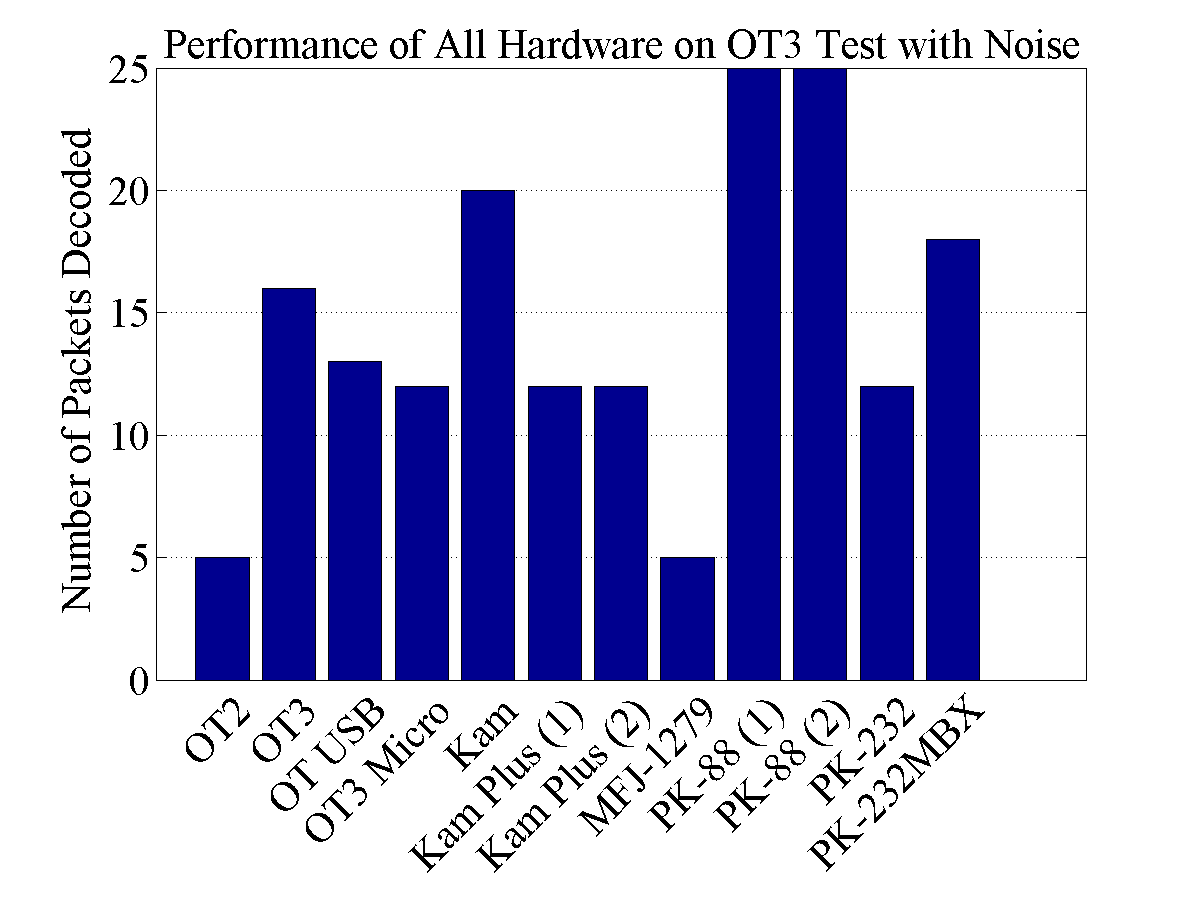
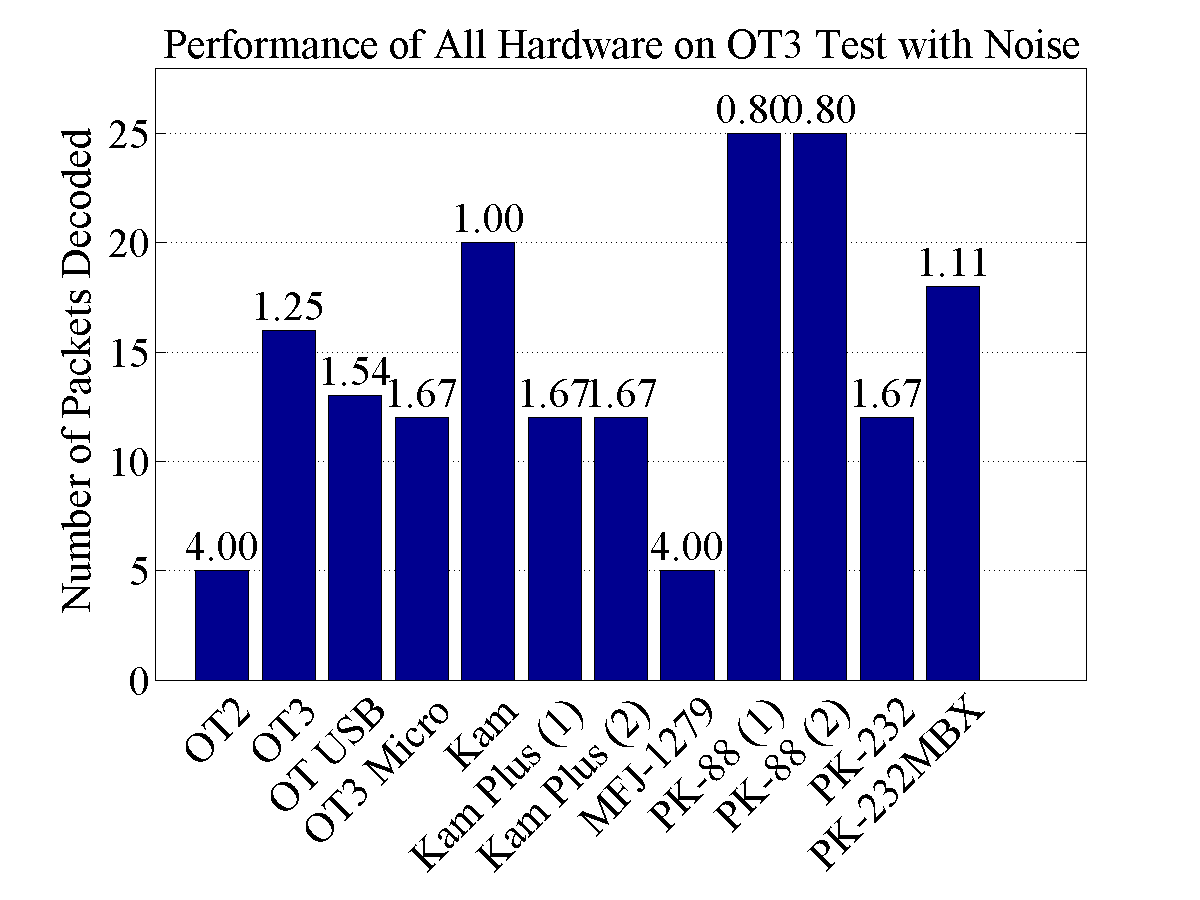
Some more edits including adding SNR to OT3 Test with noise

diff --git a/utilizingAPRS.tex b/utilizingAPRS.tex
@@ -37,9 +37,9 @@ However, both the options in this section and the one previous on TNCs require g
 \section{Software Based Demodulation}
 It's fair to assume that before a ham operator becomes interested in the APRS network and sending APRS packets that they will already have a radio. So, if they already have a radio all they have to do is buy a piece of hardware that will do the modulation in order to send a packet. However, hardware costs money and before diving right in, some users might appreciate being able to try APRS out first. A good, cheap alternative to dedicated hardware is to use hardware that hams already have. A good choice that will fit the needs is a computer, which most hams are likely to already own. If they don't happen to own a computer, much of this argument is null and void since a computer is required to use both TNCs and to program the specialty hardware. On the computer, amateurs can use software to do the modulation and demodulation, and build or buy a cheap interface to a radio, around \$15 instead of roughly \$200 for a piece of dedicated hardware.
 
-This seems to be a route that some are taking and a demodulation scheme that this project explores in detail, but before exploring this in more detail, more information on current systems that operate in this software realm is necessary. Some examples of the software that can be used are George Rossopoylos's Packet Engine\,\cite{Rossopoylos}, Thomas Sailer's Linux Sound Modem\,\cite{Sailer1997,Sailer2000}, and Sivan Toledo's JavaAX25\,\cite{javax25github, Toledo2012a}. On a computer, even one with minimal resources, there are algorithms that are being used to demodulate the APRS packets. Again, what this project aims to investigate is what improvements can be made to the algorithms and software-based demodulation approaches in order to decode these packets in a more robust fashion and to try and get similar performance to TNCs and dedicated hardware. Based on observations in initial analyses where software was unable to decode packets, the hypothesis is made that improvements can be made to software based demodulation.
+This seems to be a route that some are taking and a demodulation scheme that this project explores in detail, but before exploring this in more detail, more information on current systems that operate in this software realm is necessary. Some examples of the software that can be used are George Rossopoylos's Packet Engine\,\cite{Rossopoylos}, Thomas Sailer's Linux Sound Modem\,\cite{Sailer1997,Sailer2000}, and Sivan Toledo's JavaAX25\,\cite{javax25github, Toledo2012a}. On a computer, even one with minimal resources, there are algorithms that are being used to demodulate the APRS packets. Again, what this project aims to investigate is what improvements can be made to the algorithms of software-based demodulation approaches in order to decode more APRS packets to achieve performance similar to TNCs and dedicated hardware. Improved performance for the software is defined by being able to correctly decode more packets in an efficent, real time, manner. Based on observations in initial analyses where software was unable to decode packets, the hypothesis is made that improvements can be made to software based demodulation.
 
 \subsection{javAX25}
-Sivan Toledo's javAX25 is one method of utilizing the APRS network. Toledo's software is very comprehensive in handling the encoding, decoding, radio control, and interfacing with sound cards to allow for full use of APRS. However, in addition to just being able to utilize APRS, there is also a test application inside of this package that allows for quick and easy testing of everything in the suite - of the most interest, however, is the ability to test demodulators. Although all of these features were included, the three primarily used in this project were the modulation, demodulation, and demodulator testing. Due to its comprehensiveness and ease of access online through Github, javAX25 was chosen to be the basis for this project\,\cite{javax25github}. For a complete list of features the manual can be found in the following reference, and even from the beginning the mission statement he outlines coincides with that of this research\,\cite{Toledo2012a}.
+Sivan Toledo's javAX25 is one method of utilizing the APRS network. Toledo's software is very comprehensive in handling the encoding, decoding, radio control, and interfacing with sound cards to allow for full use of APRS. However, in addition to just being able to utilize APRS, there is also a test application inside of this package that allows for quick and easy testing of everything in the suite - of the most interest, however, is the ability to test demodulators. Although all of these features were included, the three primarily used in this project were the modulation, demodulation, and demodulator testing. Due to its comprehensiveness and ease of access online through Github, javAX25 was chosen to be the basis for this project\,\cite{javax25github}. For a complete list of features, the manual can be found in the following reference, and even from the beginning the mission statement he outlines coincides with that of this research\,\cite{Toledo2012a}.
 
 Toledo did some benchmarking of his software and found that running two demodulators in parallel provided the best results. The demodulators were exactly the same; the only difference was that one was processing data after a bandpass filter that was centered around the two frequencies of interest, and the other had a bandpass filter that additionally applied 6dB of attenuation at 1200Hz\,\cite{Toledo2012}. Being published in 2012, this is the newest reference in this paper on the subject of AX.25 (aside from the papers published by Finnegan\,\cite{KWFThesis, KWFTAPR}), which provided additional incentive to use this project for this research. As added verification of making the correct decision of what software to use, a very popular Android APRS application written by Georg Lukas uses javAX25 by a direct import\,\cite{APRSdroid}.

diff --git a/results.tex b/results.tex
@@ -38,7 +38,7 @@ In this section, the number of packets that each of the demodulators in the javA
 
 With a total of 13 algorithms implemented, some did well and others not at all, so as in the section on hardware results, all of the data will be presented followed by a focus on those that performed the best. In the new javAX25 software implementation the filtering was moved from its original location of being on a per demodulator level basis to a central location that allowed each of the algorithms to utilize it. Some of the algorithms ended up relying on it after tuning and others could remain independent. As such, in order to present all of the data, each algorithm will not only have a result for each of the 5 test files, but also for each of the three filters used on the data. The three filters used are no filter, a 900-2500Hz bandpass filter, and the same bandpass with a 6dB attenuation of 1200Hz tones to combat the signals that were not emphasized when transmitted but were deemphasized when received. For instance, for the Zero Crossing demodulator there will be three values for the OpenTracker 3 Test file, one at each filtering, and so on for the remaining 4 test files.
 
-In terms of the data, the correlation results will be on the far left of all the plots since this was the current algorithm to beat. The performance of no filter on the OpenTracker 3 Test can be seen in Figure \ref{OT3FiltNo}, Figure \ref{OT3Filt0} shows data with the bandpass filter, and the emphasizing filter results in Figure \ref{OT3Filt6}. It can be observed that zero crossing did not favor the filters, others were resilient, and preclocking thrived. The Generated 200 Test file is the only file that the peak demodulator performed comparably to the other techniques. The unfiltered data from this test is in Figure \ref{Gen200FiltNo}, the bandpass data in Figure \ref{Gen200Filt0}, and the results of emphasizing the signal in Figure \ref{Gen200Filt6}. Although the generated 200 packet file and the OpenTracker test file had similar results, the results for the generated 200 were better. This can be attributed to the fact that this file has only ever existed in the digital realm, it was made and consumed there, as opposed to existing in the physical world and then recording it.
+As correlation was the original implementation and already present in the javAX25 package its performance should be considered the baseline. Since this is the baseline it will be on the far left of the plots for reference. The performance of no filter on the OpenTracker 3 Test can be seen in Figure \ref{OT3FiltNo}, Figure \ref{OT3Filt0} shows data with the bandpass filter, and the emphasizing filter results in Figure \ref{OT3Filt6}. It can be observed that zero crossing did not favor the filters, others were resilient, and preclocking thrived. The Generated 200 Test file is the only file that the peak demodulator performed comparably to the other techniques. The unfiltered data from this test is in Figure \ref{Gen200FiltNo}, the bandpass data in Figure \ref{Gen200Filt0}, and the results of emphasizing the signal in Figure \ref{Gen200Filt6}. Although the generated 200 packet file and the OpenTracker test file had similar results, the results for the generated 200 were better. This can be attributed to the fact that this file has only ever existed in the digital realm, it was made and consumed there, as opposed to existing in the physical world and then recording it.
 
 \begin{figure}
   \centering

diff --git a/main.tex b/main.tex
@@ -33,7 +33,7 @@
 \committeemembershippage
 
 \begin{abstract}
-Digital communications continues to be a relevant field of study as new technologies appear and old methodologies get revisited or renovated. The goal of this research is to look into the old digital communication scheme of Bell 202\,\cite{stauffer1984fsk} used by APRS and find a way to demodulate the signal in software with results similar to those of hardware demodulators. Even though there are software based approaches that are respectable in terms of being able to demodulate a similar number of packets to hardware, the software demodulation has room for growth. This research shows that through using Sivan Toledo's JavaAX25\,\cite{javax25github} software package, new demodulation algorithms can be implemented that decode additional Bell 202 encoded AX.25 packets that the existing software tools could not.
+Digital communications continues to be a relevant field of study as new technologies appear and old methodologies get revisited or renovated. The goal of this research is to look into the old digital communication scheme of Bell 202\,\cite{stauffer1984fsk} used by APRS and improve software based demodulation performance. Improved performance is defined by being able to correctly decode more packets in an efficent, real time, manner. Most APRS demodulation is currently done using speacialized hardware since that yields the best performance. This research shows that through using Sivan Toledo's JavaAX25\,\cite{javax25github} software package, new demodulation algorithms can be implemented that decode more Bell 202 encoded AX.25 packets that the existing software could. These improvements may help drive the adoption of software demodulation since it is a low cost alternative to specialized hardware.
 \end{abstract}
 
 
